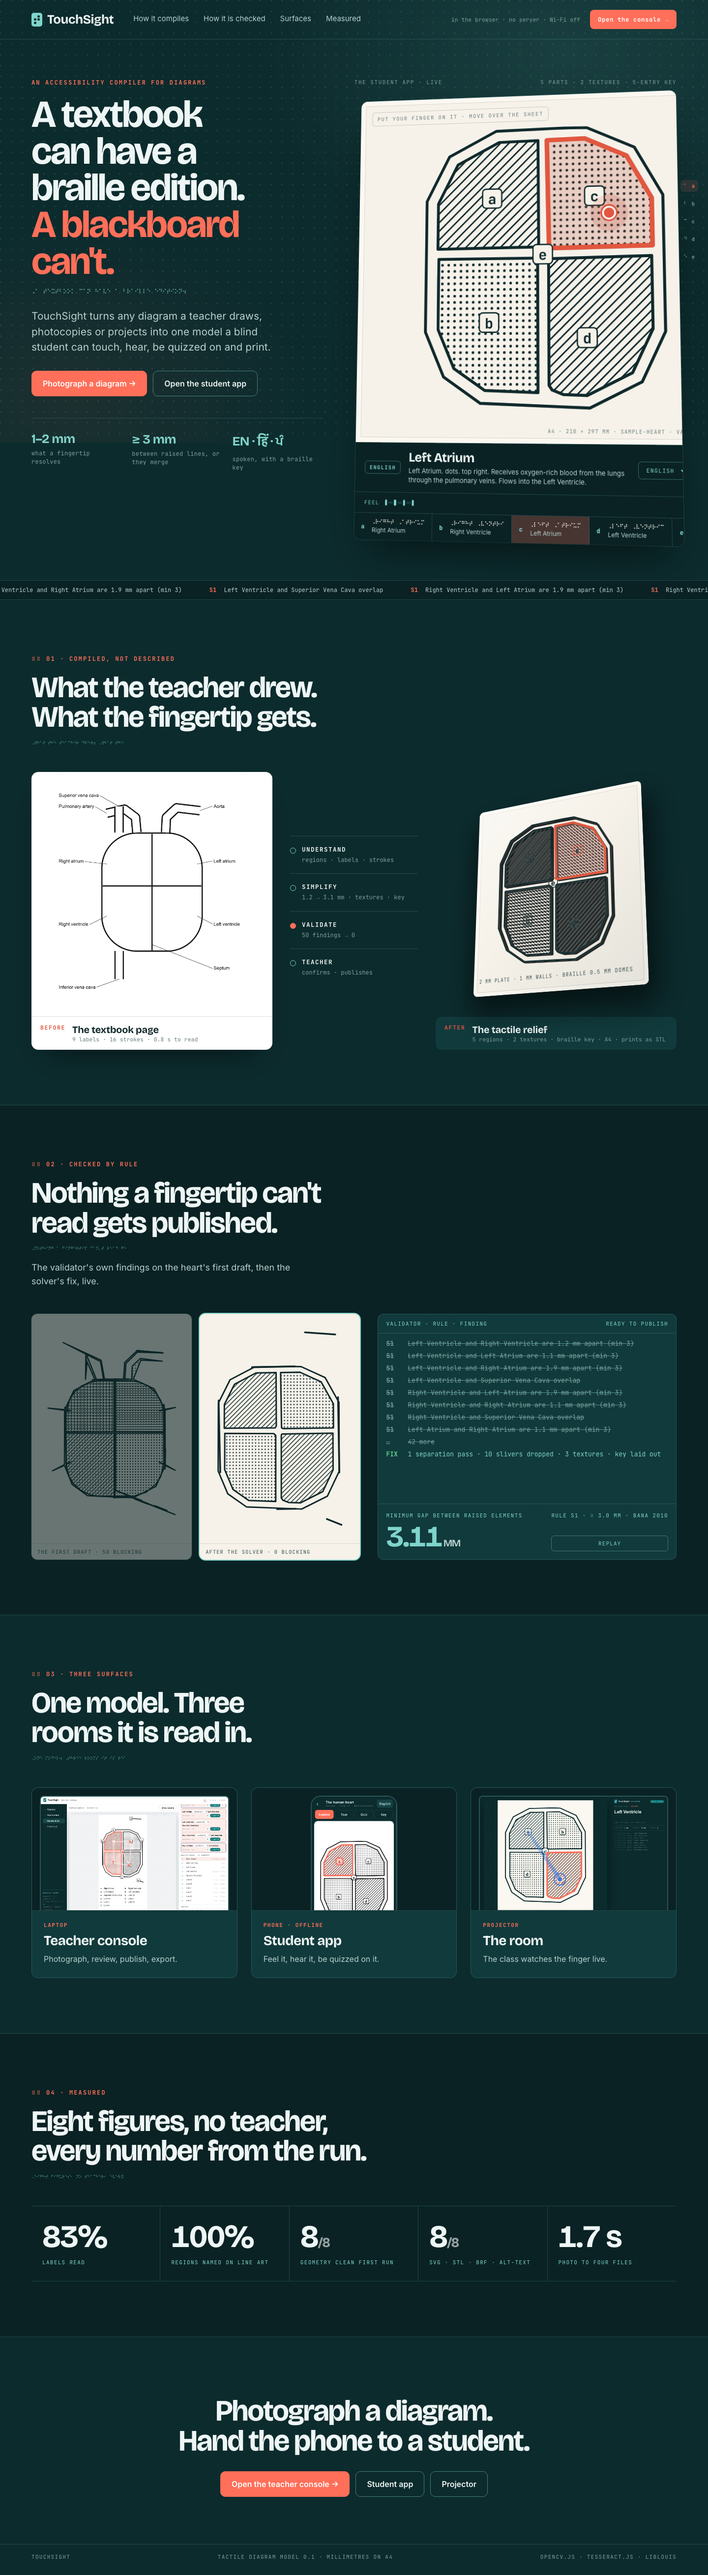
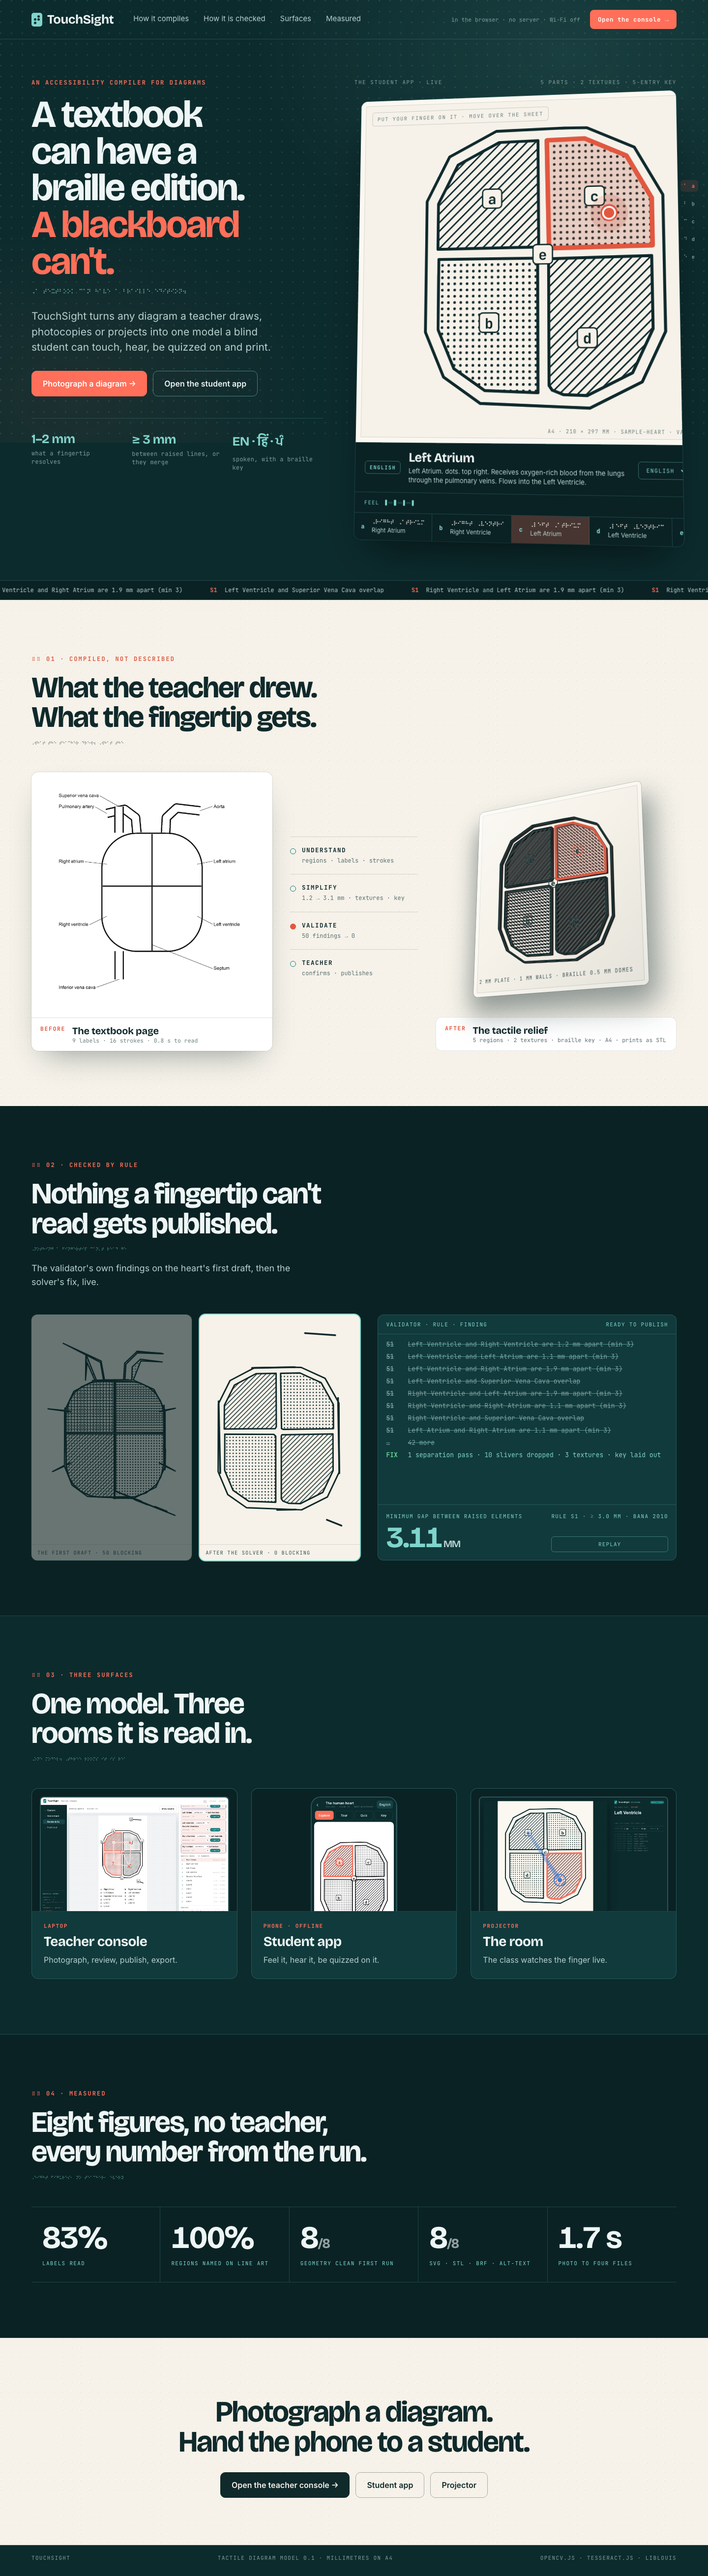
Paper bands between the green sections

diff --git a/app/src/routes/landing/landing.css b/app/src/routes/landing/landing.css
@@ -82,6 +82,19 @@
 @keyframes ld-tick { to { transform: translateX(-50%) } } @media (prefers-reduced-motion: reduce) { .ld-ticker-in { animation: none; } }
 
 .ld-sec { padding: 112px 64px; border-bottom: 1px solid var(--line); } .ld-deeper { background: var(--bg2); }
+/* paper bands: the sheets sit on paper */
+.ld-paper { background: var(--p); color: var(--ink); border-bottom: 0; position: relative; }
+.ld-paper::before { content: ''; position: absolute; inset: 0; pointer-events: none; background-image: radial-gradient(circle at 1px 1px, rgba(255,255,255,.9) 0.8px, transparent 1.3px), radial-gradient(circle at 1.8px 1.9px, rgba(16,41,43,.10) 0.8px, transparent 1.3px); background-size: 18px 18px; }
+.ld-paper > * { position: relative; }
+.ld-paper .ld-h2 { color: var(--ink); } .ld-paper .ld-brl { color: var(--ink); opacity: .8; } .ld-paper .ld-eyebrow { color: #e2573f; }
+.ld-paper .ld-steps li { border-top-color: rgba(16,41,43,.16); } .ld-paper .ld-steps li::before { background: var(--p); border-color: #0e7c7b; } .ld-paper .ld-steps li:nth-child(3)::before { background: #e2573f; border-color: #e2573f; }
+.ld-paper .ld-steps b { color: var(--ink); } .ld-paper .ld-steps span { color: #5c6f70; }
+.ld-paper .ld-cmp { box-shadow: 0 30px 60px -28px rgba(16,41,43,.45), 0 0 0 1px rgba(16,41,43,.12); }
+.ld-paper .ld-cmp.relief { box-shadow: none; } .ld-paper .ld-cmp.relief figcaption { background: #fff; border: 1px solid rgba(16,41,43,.12); color: #5c6f70; } .ld-paper .ld-cmp.relief figcaption b { color: var(--ink); }
+.ld-paper .r3-shadow { background: rgba(16,41,43,.45); }
+.ld-paper .r3-plate { box-shadow: inset 0 0 0 8px #fbf8f1, inset 0 0 0 9px rgba(16,41,43,.14), 0 0 0 1px rgba(16,41,43,.2); }
+.ld-paper .ld-btn { border-color: rgba(16,41,43,.35); color: var(--ink); } .ld-paper .ld-btn.solid { background: var(--ink); border-color: var(--ink); color: var(--p); } .ld-paper .ld-btn.solid:hover { background: #e2573f; border-color: #e2573f; }
+.ld-paper .ld-btn:hover { border-color: var(--ink); }
 .ld-sec-head { max-width: 1100px; }
 
 .ld-compare { display: grid; grid-template-columns: minmax(0, 1fr) 260px minmax(0, 1fr); gap: 36px; margin-top: 56px; align-items: stretch; }

diff --git a/app/src/routes/landing/Landing.tsx b/app/src/routes/landing/Landing.tsx
@@ -78,11 +78,11 @@ export function Landing() {
       <div className="ld-ticker" aria-hidden><div className="ld-ticker-in mono">{[...facts.findings.slice(0, 12), ...facts.findings.slice(0, 12)].map((f, i) => <span key={i}><em>{f.rule}</em> {f.msg}</span>)}</div></div>
 
       {/* compiled */}
-      <section className="ld-sec" id="compile">
+      <section className="ld-sec ld-paper" id="compile">
         <div className="ld-sec-head">
           <p className="ld-eyebrow mono" data-rv>⠼⠁ 01 · compiled, not described</p>
           <h2 className="ld-h2" data-rv>What the teacher drew. What the fingertip gets.</h2>
-          <BrailleLine text="What the teacher drew. What the fingertip gets." className="light" />
+          <BrailleLine text="What the teacher drew. What the fingertip gets." />
         </div>
         <div className="ld-compare">
           <figure className="ld-cmp" data-rv><img src={heartPhoto} alt="A textbook line drawing of the heart with nine printed labels" /><figcaption><span className="mono">before</span><b>The textbook page</b><span className="mono">9 labels · 16 strokes · 0.8 s to read</span></figcaption></figure>
@@ -137,7 +137,7 @@ export function Landing() {
         </div>
       </section>
 
-      <section className="ld-close">
+      <section className="ld-close ld-paper">
         <h2 className="ld-h2 center" data-rv>Photograph a diagram.<br />Hand the phone to a student.</h2>
         <div className="ld-dock center" data-rv><Link className="ld-btn solid" to="/teacher">Open the teacher console →</Link><Link className="ld-btn" to="/student">Student app</Link><Link className="ld-btn" to="/stage">Projector</Link></div>
       </section>
